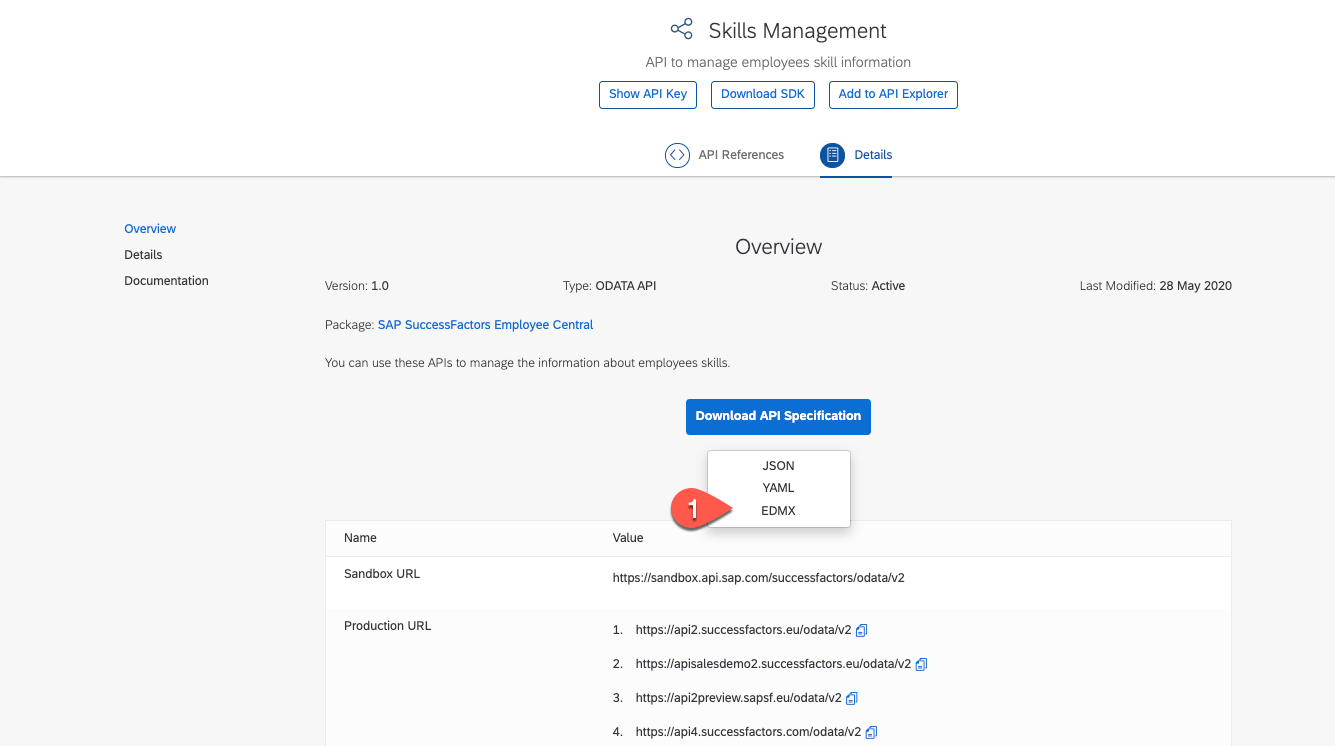
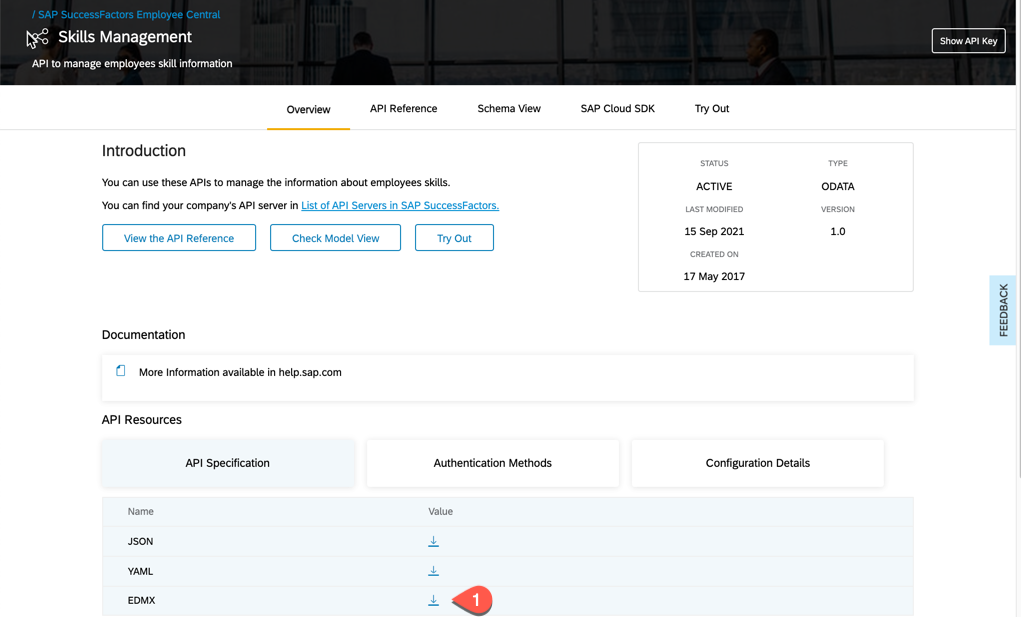
update screenshots

diff --git a/mission/api-hub/README.md b/mission/api-hub/README.md
@@ -13,27 +13,24 @@ In SAP API Business Hub, you can discover and consume digital content packages w
 
 1.	Open a browser window and then go to [SAP API Business Hub](https://api.sap.com/).
 2. In the Search bar, search for **Common Platform API**.
-3. Click on the search result, **Common Platform API** found in **SAP SuccessFactors Foundation/Platform**.
-4. Choose the tab **Details**.	
-5. Click the button **Download API Specification** and select **EDMX**. 
+3. Click on the search result, **Common Platform API** found in **SAP SuccessFactors Foundation/Platform** with **ODATA V2 API** format.
+4. Scroll down to the section **API Resources** and click the **Download** icon next to **EDMX** to download the EDMX file to a local folder. 
 
    ![EDMX External user](./images/api-1.png)
    
-6. You get a **Login Required** popup. Log on to SAP API Business Hub to download the EDMX file to a local folder.
+5. You get a **Login Required** popup. Log on to SAP API Business Hub and download the EDMX file to a local folder.
 
    ![Login APIHub](./images/api-2.png) 
    
-7. 	Go back to the homepage of **SAP API Business Hub** and search for **User Management** in the Search bar.
-8. Click on the search result **User Management** API found in **SAP SuccessFactors Foundation/Platform**.
-9. Choose the tab **Details**.	
-10. Click the button **Download API Specification** and select **EDMX** to download the EDMX file to a local folder.
+6. 	Go back to the homepage of **SAP API Business Hub** and search for **User Management** in the Search bar.
+7. Click on the search result **User Management** API found in **SAP SuccessFactors Foundation/Platform** with **ODATA V2 API** format.
+8. Scroll down to the section **API Resources** and click the **Download** icon next to **EDMX** to download the EDMX file to a local folder.
 
     ![EDMX User Management](./images/api-3.png) 
     
-11. Go back to the homepage of **SAP API Business Hub** and search for **Skills Management** in the Search bar.
-12. Click on the search result **Skills Management** API found in **SAP SuccessFactors Employee Central**.
-9. Choose the tab **Details**.	
-10. Click the button **Download API Specification** and select **EDMX** to download the EDMX file to your local folder.
+9. Go back to the homepage of **SAP API Business Hub** and search for **Skills Management** in the Search bar.
+10. Click on the search result **Skills Management** API found in **SAP SuccessFactors Employee Central** with **ODATA V2 API** format.
+11. Scroll down to the section **API Resources** and click the **Download** icon next to **EDMX** to download the EDMX file to a local folder.
 
     ![EDMX User Management](./images/api-4.png) 
 
